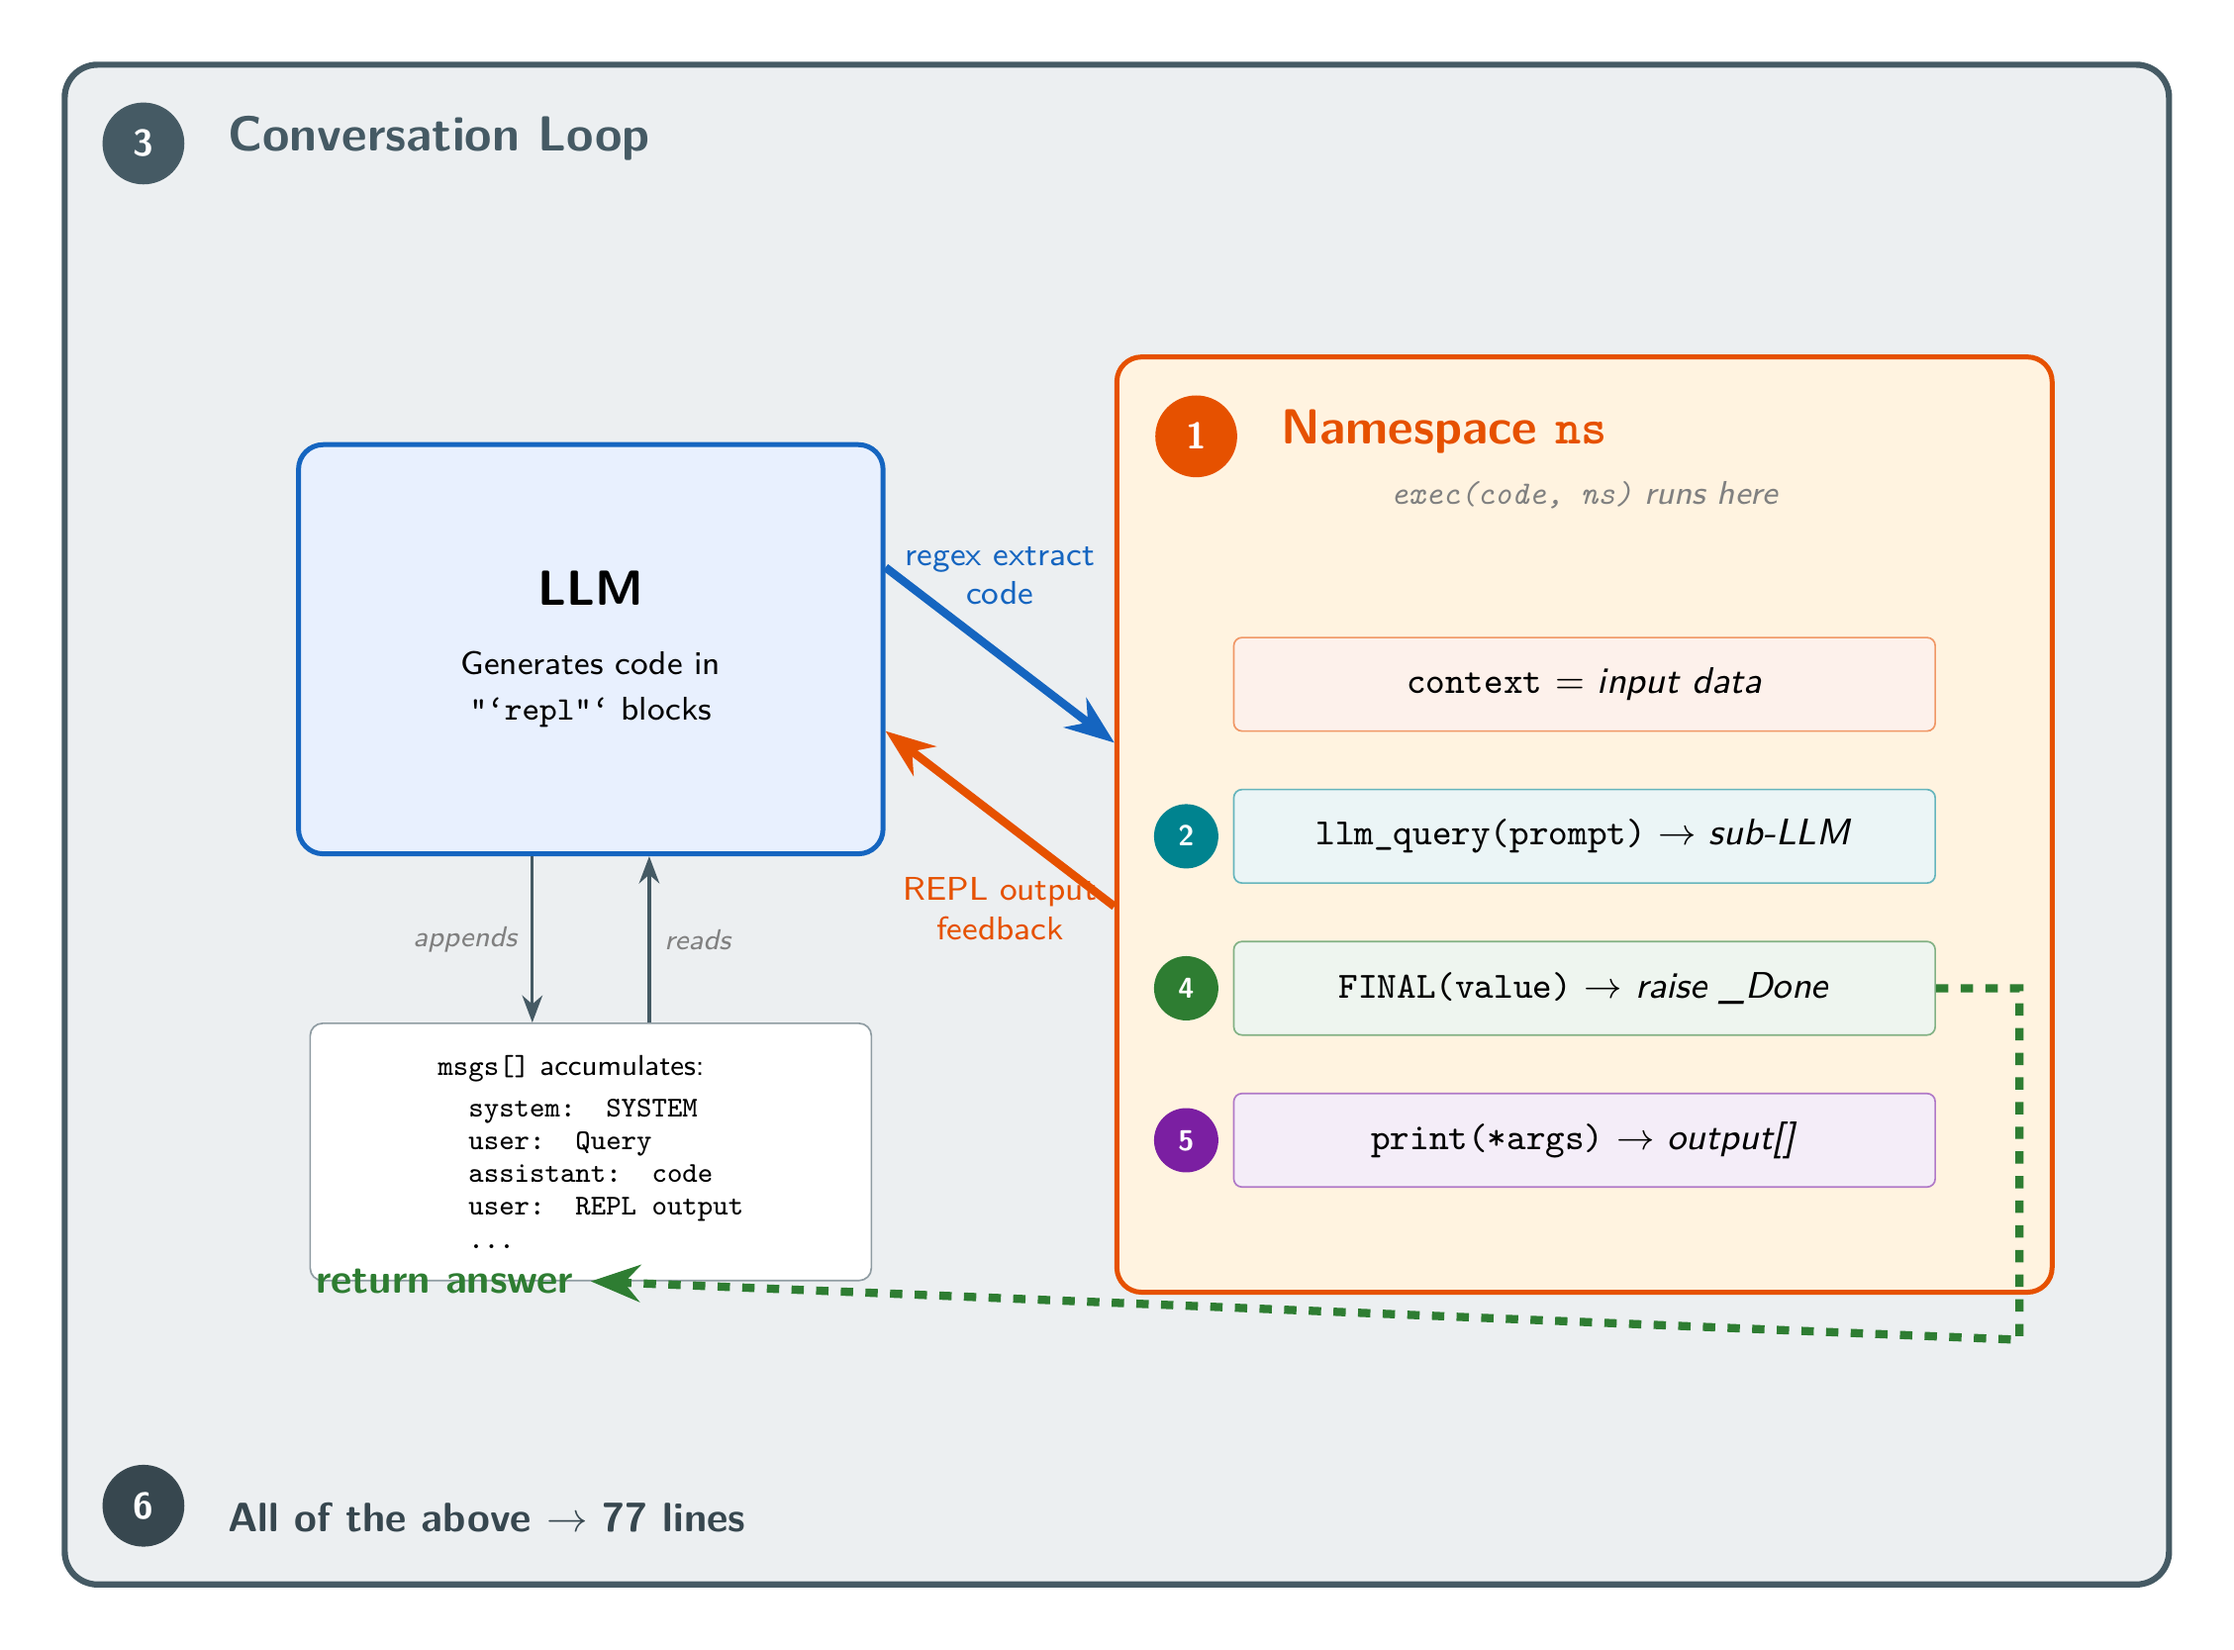
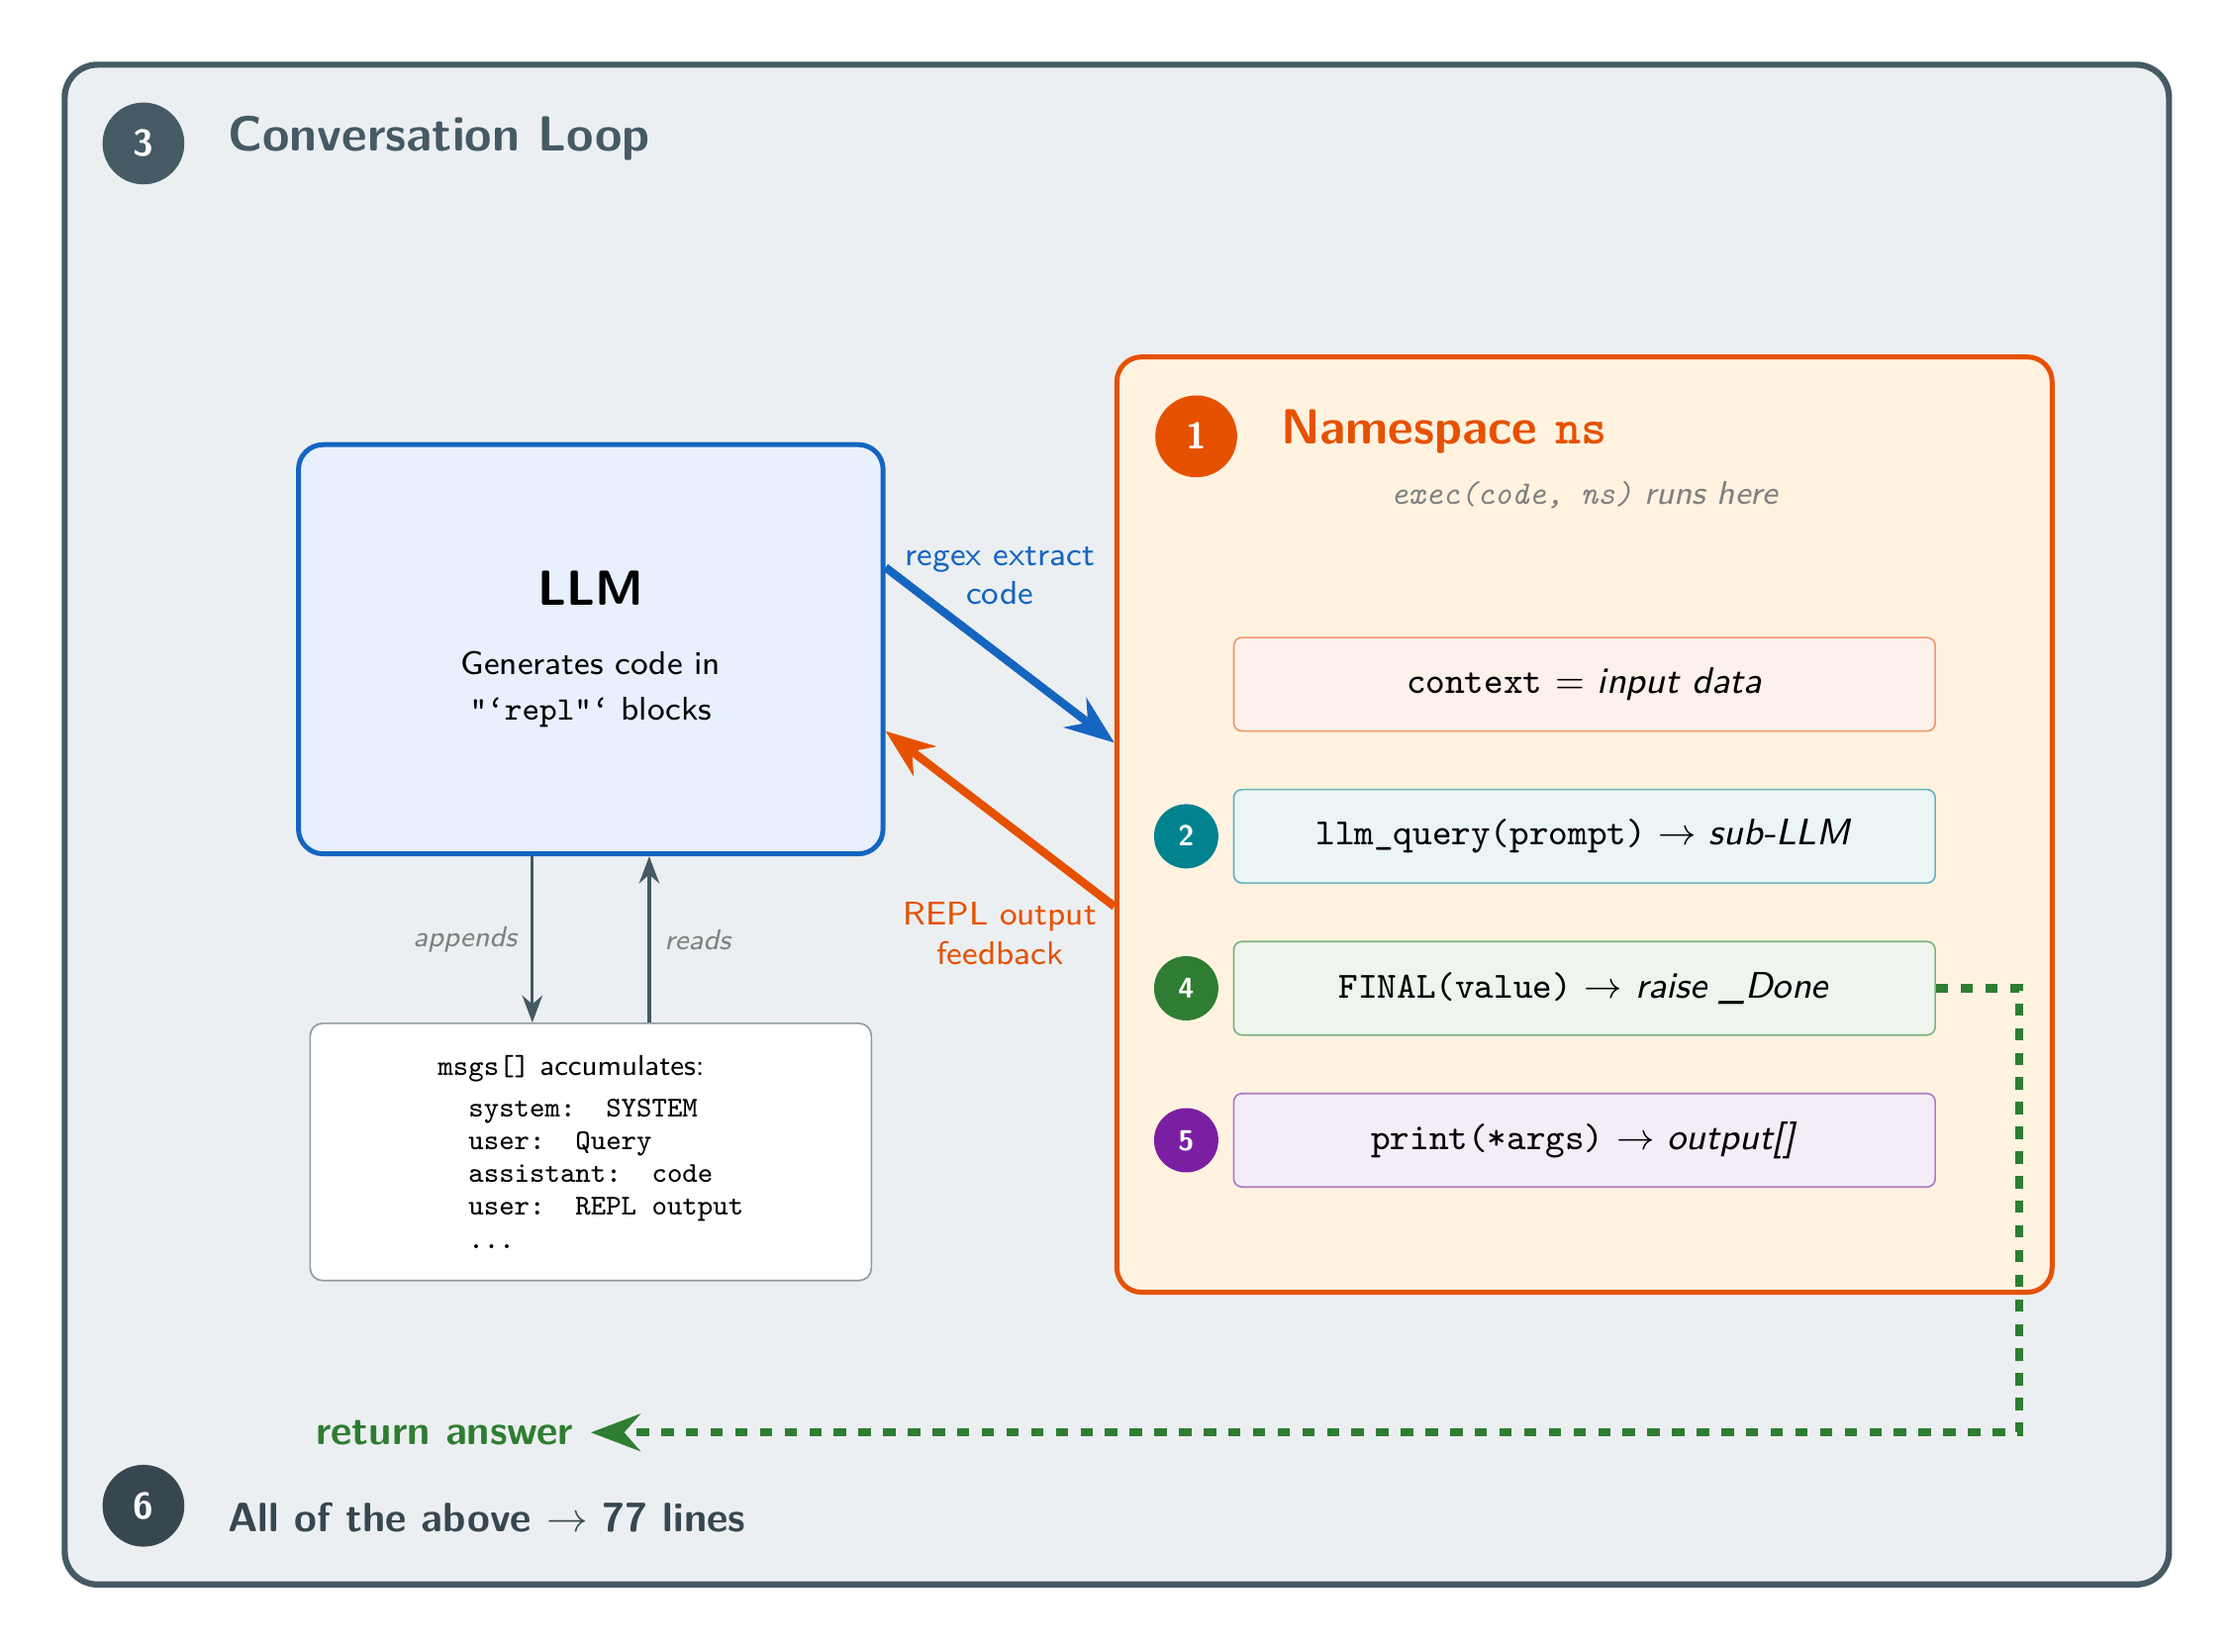
Fix architecture diagram: orthogonal return arrow, label spacing
- Return answer arrow now uses a single Y coordinate for the
  horizontal segment, eliminating the diagonal artifact
- Lowered return answer label for clear separation from msgs box
- Increased spacing on REPL output feedback label to avoid overlap

Changed region(s): [[0.4032, 0.5303, 0.4962, 0.5927], [0.1551, 0.8422, 0.3101, 0.8734], [0.1551, 0.7487, 0.3101, 0.7798]]

diff --git a/diagrams/architecture.tex b/diagrams/architecture.tex
@@ -99,7 +99,7 @@
 
 \draw[->, replorange, line width=2pt]
     ([yshift=-0.7cm]nsframe.west) -- ([yshift=-0.7cm]llm.east)
-    node[midway, below=10pt, font=\sffamily\footnotesize, align=center]
+    node[midway, below=16pt, font=\sffamily\footnotesize, align=center]
     {REPL output\\feedback};
 
 % =====================================================
@@ -125,10 +125,12 @@
 % =====================================================
 % FINAL exit arrow — exits right, curves down and along bottom
 % =====================================================
+% Shared Y for the horizontal return segment
+\pgfmathsetmacro{\returnY}{-5.2}
 \draw[->, finalgreen, line width=2pt, dashed]
     (fin.east) -- ([xshift=-0.3cm]nsframe.east |- fin)
-    -- ([xshift=-0.3cm, yshift=-0.5cm]nsframe.east |- msgs.south)
-    -- (-4.5, -4.7 |- msgs.south)
+    -- ([xshift=-0.3cm]nsframe.east |- 0,\returnY)
+    -- (-4.5, \returnY)
     node[at end, left, font=\sffamily\bfseries,
         text=finalgreen] {return answer};
 
